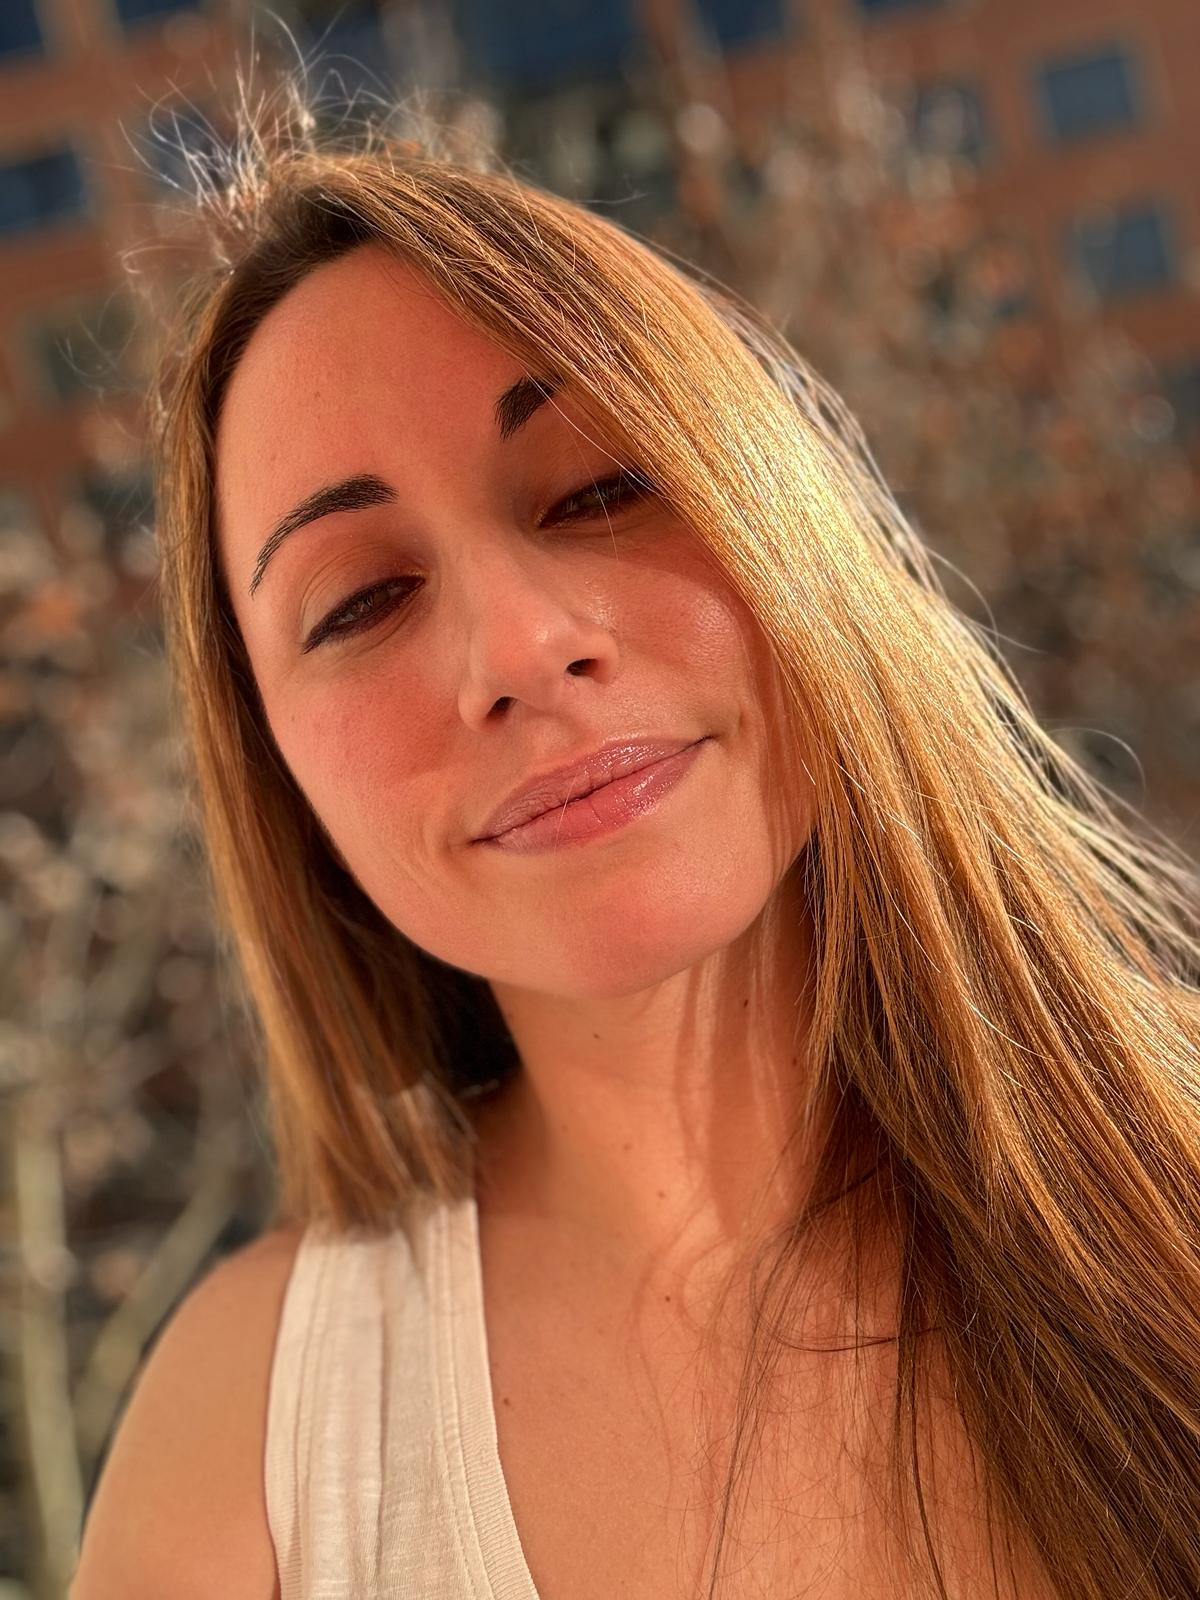
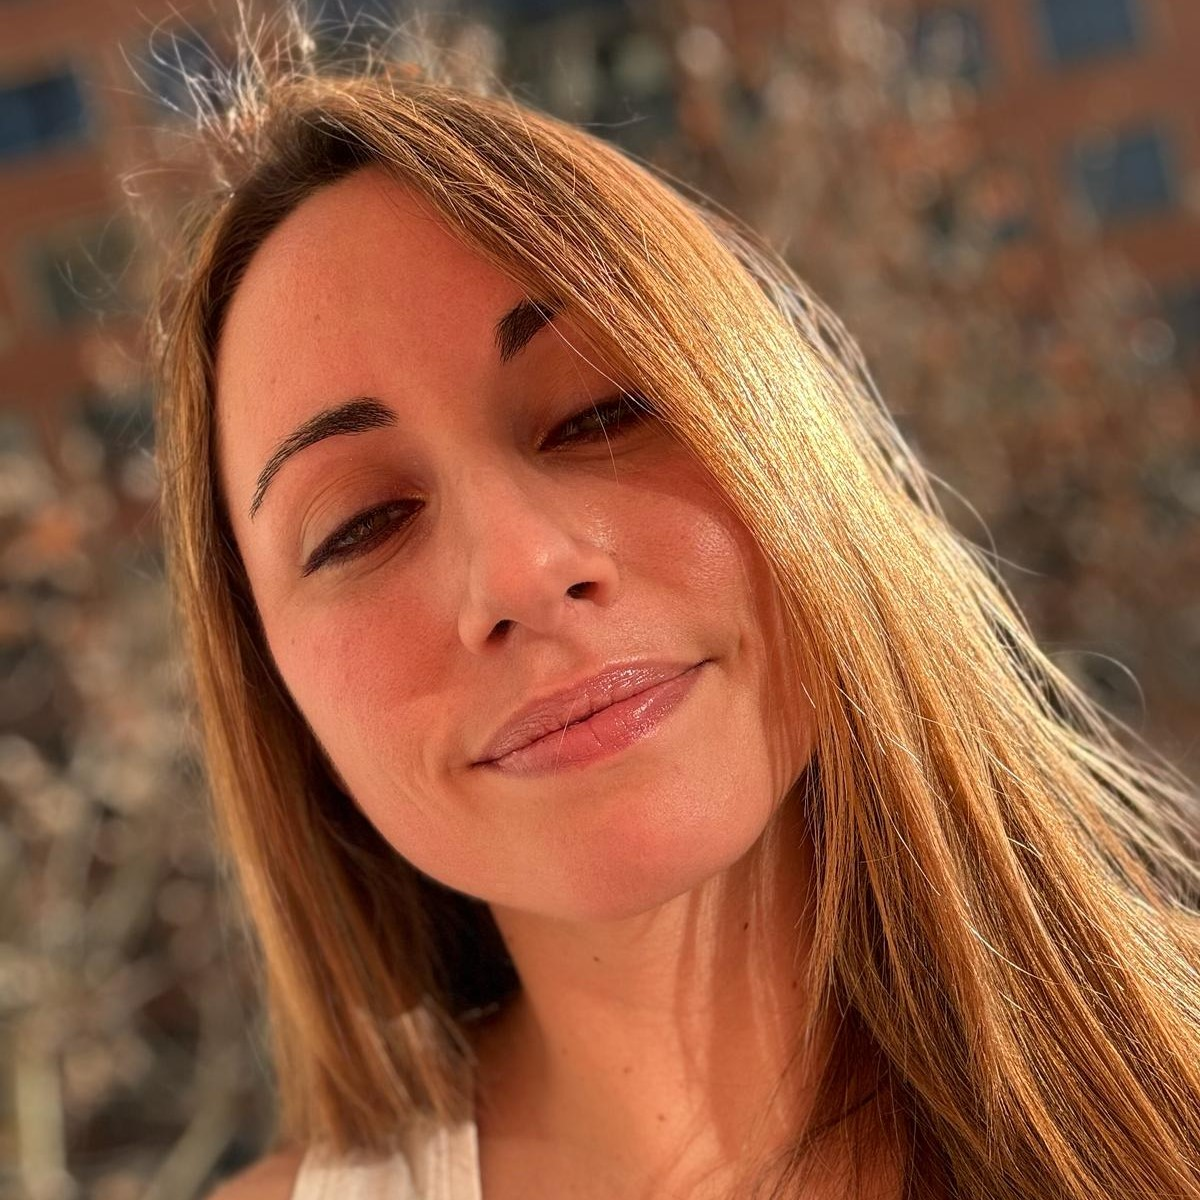
foto paula definitiva

diff --git a/src/partials/section_4.html b/src/partials/section_4.html
@@ -77,7 +77,7 @@
     </section>
     <section class="section_left">
         <figure class="figure_img">
-            <img src="/images/foto paula provisional.jpeg" alt="Foto Paula">
+            <img src="/images/foto paula definitiva.jpeg" alt="Foto Paula">
         </figure>
         <div>
             <h3>Paula Sanz Ilundain</h3>
